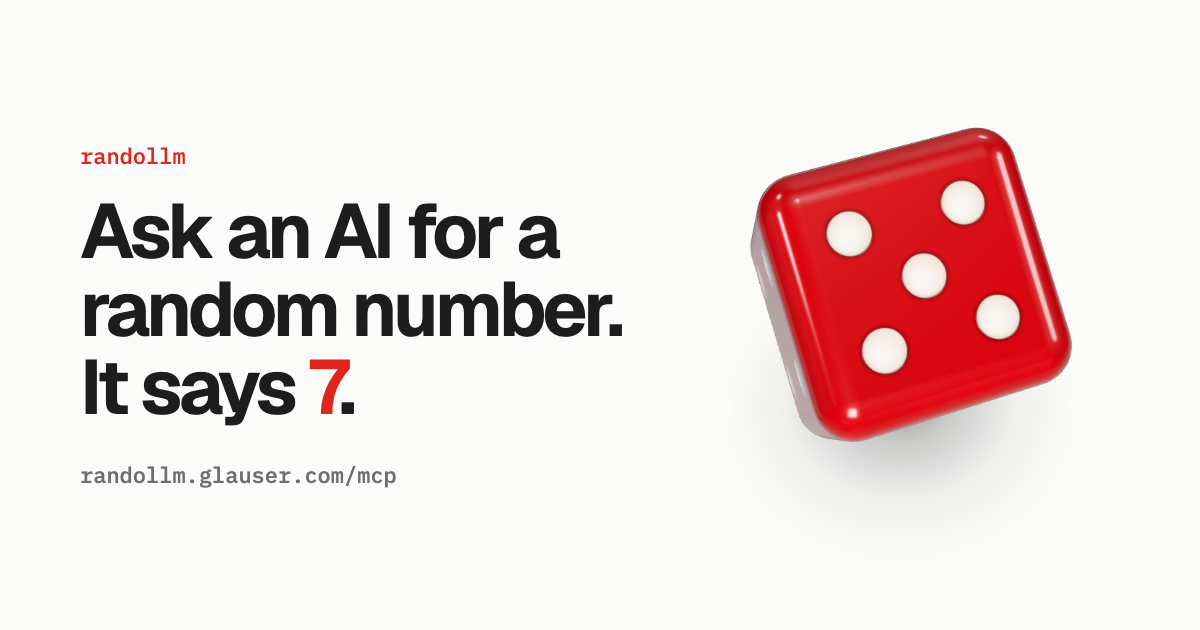
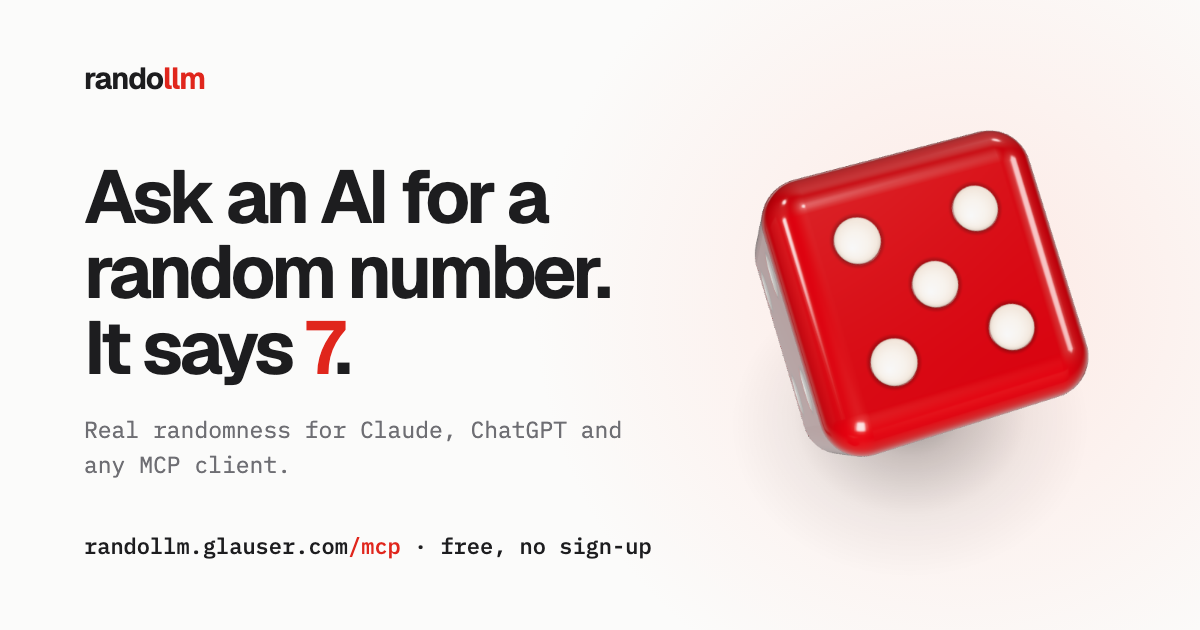
Usage counts, chart and tools without boxes, new share image
- Anonymous usage counting with Workers Analytics Engine (src/usage.js):
  one data point per tool call and per MCP client connection, with the
  tool, channel (mcp, api, or site for the landing page's own demos),
  the client's reported name or user agent, and the country. No IPs,
  inputs or results. `npm run usage` prints the numbers. Privacy policy
  says so.
- The histogram and the tools grid sit directly on the background; chart
  labels no longer collide with the 10% line.
- Share image redone: wordmark, cleaner line breaks, no box, soft glow.

diff --git a/src/usage.js b/src/usage.js
@@ -1,0 +1,81 @@
+// Anonymous usage counting with Workers Analytics Engine (binding USAGE,
+// dataset randollm_usage). One data point per event, never an IP address or
+// a tool's inputs. Columns, as queried by scripts/usage.mjs:
+//   blob1 event    "call" (a tool was used) or "connect" (an MCP client connected)
+//   blob2 tool     e.g. "int"; "" for connect events
+//   blob3 channel  "mcp", "api", or "site" (the landing page's own demos)
+//   blob4 client   the MCP client's name and version, or the API caller's user agent
+//   blob5 country  two-letter code from Cloudflare
+import { operations } from "./random.js";
+
+const MAX_CLIENT = 96;
+
+function clean(value) {
+  return String(value ?? "")
+    .replace(/[\u0000-\u001f\u007f]/g, "")
+    .slice(0, MAX_CLIENT);
+}
+
+function record(env, request, { event, tool = "", channel, client = "" }) {
+  try {
+    env.USAGE?.writeDataPoint({
+      indexes: [tool || event],
+      blobs: [event, tool, channel, clean(client), request.cf?.country ?? ""],
+    });
+  } catch {
+    // Counting must never break a request.
+  }
+}
+
+// Requests from the landing page's demos, so they don't count as real use.
+function fromSite(request, url) {
+  for (const header of ["origin", "referer"]) {
+    const value = request.headers.get(header);
+    if (!value) continue;
+    try {
+      return new URL(value).host === url.host;
+    } catch {
+      return false;
+    }
+  }
+  return false;
+}
+
+export function recordApi(env, request, url, op) {
+  const site = fromSite(request, url);
+  record(env, request, {
+    event: "call",
+    tool: op,
+    channel: site ? "site" : "api",
+    client: site ? "" : request.headers.get("user-agent"),
+  });
+}
+
+// Reads a copy of the MCP request body: one JSON-RPC message, or a batch.
+export async function recordMcp(env, request) {
+  if (request.method !== "POST" || !env.USAGE) return;
+  let body;
+  try {
+    body = await request.clone().json();
+  } catch {
+    return;
+  }
+  for (const msg of Array.isArray(body) ? body : [body]) {
+    if (msg?.method === "initialize") {
+      const info = msg.params?.clientInfo ?? {};
+      record(env, request, {
+        event: "connect",
+        channel: "mcp",
+        client: [info.name, info.version].filter(Boolean).join(" "),
+      });
+    } else if (msg?.method === "tools/call") {
+      const name = msg.params?.name;
+      record(env, request, {
+        event: "call",
+        tool: Object.hasOwn(operations, name) ? name : "unknown",
+        channel: "mcp",
+        client: request.headers.get("user-agent"),
+      });
+    }
+  }
+}

diff --git a/test/usage.test.js b/test/usage.test.js
@@ -1,0 +1,55 @@
+import { test } from "node:test";
+import assert from "node:assert/strict";
+import { Client } from "@modelcontextprotocol/sdk/client/index.js";
+import { StreamableHTTPClientTransport } from "@modelcontextprotocol/sdk/client/streamableHttp.js";
+import worker from "../src/worker.js";
+
+function envWithUsage() {
+  const points = [];
+  return { points, env: { USAGE: { writeDataPoint: (p) => points.push(p) } } };
+}
+
+test("MCP: records the client on connect and each tool call, never inputs", async () => {
+  const { points, env } = envWithUsage();
+  const client = new Client({ name: "test-client", version: "1.2.3" });
+  await client.connect(
+    new StreamableHTTPClientTransport(new URL("https://randollm.example/mcp"), {
+      fetch: (url, init) => worker.fetch(new Request(url, init), env),
+    }),
+  );
+  await client.callTool({ name: "pick", arguments: { options: ["secret-option-a", "secret-option-b"] } });
+  await client.close();
+
+  const blobs = points.map((p) => p.blobs);
+  assert.deepEqual(blobs[0].slice(0, 4), ["connect", "", "mcp", "test-client 1.2.3"]);
+  const call = blobs.find((b) => b[0] === "call");
+  assert.deepEqual(call.slice(0, 3), ["call", "pick", "mcp"]);
+  assert.ok(!JSON.stringify(points).includes("secret-option"), "inputs are never recorded");
+  // tools/list and notifications are not counted.
+  assert.equal(points.length, 2);
+});
+
+test("API: counts calls, and separates the landing page's demos", async () => {
+  const { points, env } = envWithUsage();
+  await worker.fetch(new Request("https://randollm.example/api/coin", { headers: { "user-agent": "curl/8.7.1" } }), env);
+  await worker.fetch(
+    new Request("https://randollm.example/api/dice?count=1&sides=6", {
+      headers: { referer: "https://randollm.example/", "user-agent": "Mozilla/5.0 something long" },
+    }),
+    env,
+  );
+  await worker.fetch(new Request("https://randollm.example/api/nope"), env);
+  assert.deepEqual(
+    points.map((p) => p.blobs.slice(0, 4)),
+    [
+      ["call", "coin", "api", "curl/8.7.1"],
+      ["call", "dice", "site", ""],
+    ],
+  );
+});
+
+test("a failing analytics binding never breaks a request", async () => {
+  const env = { USAGE: { writeDataPoint: () => { throw new Error("down"); } } };
+  const res = await worker.fetch(new Request("https://randollm.example/api/coin"), env);
+  assert.equal(res.status, 200);
+});

diff --git a/public/styles.css b/public/styles.css
@@ -274,7 +274,7 @@ section {
   transform: scale(0.97);
 }
 .btn.quiet {
-  background: color-mix(in srgb, var(--red) 11%, transparent);
+  background: color-mix(in srgb, var(--red) 13%, transparent);
   color: var(--red);
   font-weight: 600;
 }
@@ -412,12 +412,7 @@ section {
 .chart {
   max-width: 880px;
   margin: 0 auto;
-  padding: 36px 20px 20px;
-}
-@media (min-width: 720px) {
-  .chart {
-    padding: 48px 44px 28px;
-  }
+  padding-top: 28px;
 }
 .bars {
   position: relative;
@@ -437,8 +432,7 @@ section {
   position: absolute;
   left: 0;
   right: 0;
-  border-top: 1px dashed var(--ink-2);
-  opacity: 0.5;
+  border-top: 1px dashed color-mix(in srgb, var(--ink) 30%, transparent);
   pointer-events: none;
 }
 .bar {
@@ -450,12 +444,16 @@ section {
 }
 .bar b {
   position: absolute;
-  bottom: 100%;
+  z-index: 1;
+  bottom: calc(100% + 6px);
   left: 50%;
   transform: translateX(-50%);
-  padding-bottom: 6px;
+  padding: 0 4px;
+  border-radius: 4px;
+  background: var(--surface-2);
   font-size: 11px;
   font-weight: 500;
+  line-height: 1.5;
   color: var(--ink-2);
   white-space: nowrap;
 }
@@ -463,8 +461,8 @@ section {
   display: grid;
   grid-template-columns: repeat(10, 1fr);
   gap: 6px;
-  padding-top: 12px;
-  border-top: 1px solid var(--hairline);
+  padding-top: 14px;
+  border-top: 1px solid color-mix(in srgb, var(--ink) 18%, transparent);
   text-align: center;
   font: 600 15px/1 var(--display);
   color: var(--ink-2);
@@ -497,7 +495,7 @@ section {
 .legend::before {
   content: "";
   width: 20px;
-  border-top: 1px dashed var(--ink-2);
+  border-top: 1px dashed color-mix(in srgb, var(--ink) 45%, transparent);
 }
 
 /* ---------- Setup ---------- */
@@ -576,10 +574,11 @@ section {
 
 .tools {
   list-style: none;
-  margin: 0;
+  margin: 0 auto;
   padding: 0;
+  max-width: 980px;
   display: grid;
-  gap: 16px;
+  column-gap: 48px;
 }
 @media (min-width: 640px) {
   .tools {
@@ -592,17 +591,19 @@ section {
   }
 }
 .tools li {
-  padding: 26px 24px 28px;
+  padding: 22px 0 26px;
+  border-top: 1px solid var(--hairline);
   display: grid;
-  gap: 10px;
+  gap: 8px;
   align-content: start;
 }
 .tools code {
   justify-self: start;
-  font-size: 12px;
+  font-size: 13px;
   font-weight: 600;
   color: var(--red);
-  background: color-mix(in srgb, var(--red) 10%, transparent);
+  background: none;
+  padding: 0;
 }
 .tools p {
   margin: 0;

diff --git a/public/index.html b/public/index.html
@@ -87,9 +87,9 @@
   <div class="wrap">
     <div class="head">
       <h2>Flat, the way <span class="red">random</span> should be.</h2>
-      <p class="sub">1,000 rolls of a ten-sided die, fetched live in one request.</p>
+      <p class="sub">1,000 rolls of a ten-sided die, fetched live.</p>
     </div>
-    <div class="card chart">
+    <div class="chart">
       <div class="bars" id="bars" role="img" aria-label="Histogram of 1,000 rolls from 1 to 10">
         <div class="expected" style="bottom:66.667%"></div>
         <div class="bar"><b></b></div><div class="bar"><b></b></div><div class="bar"><b></b></div><div class="bar"><b></b></div><div class="bar"><b></b></div>
@@ -159,15 +159,15 @@
       <p class="sub">Just ask. The model picks the right one.</p>
     </div>
     <ul class="tools">
-      <li class="card"><code>int</code><p>“Pick a number from 1 to 10.”</p></li>
-      <li class="card"><code>coin</code><p>“Flip a coin: do I go out tonight?”</p></li>
-      <li class="card"><code>pick</code><p>“Pizza, sushi or tacos? You choose.”</p></li>
-      <li class="card"><code>sample</code><p>“Pick 3 winners from these 40 names.”</p></li>
-      <li class="card"><code>shuffle</code><p>“Shuffle the order for standup.”</p></li>
-      <li class="card"><code>weighted</code><p>“70% common, 25% rare, 5% epic.”</p></li>
-      <li class="card"><code>dice</code><p>“Roll 2d6 for my attack.”</p></li>
-      <li class="card"><code>float</code><p>“A random value between 0.2 and 0.9.”</p></li>
-      <li class="card"><code>uuid</code><p>“Generate an ID for this record.”</p></li>
+      <li><code>int</code><p>“Pick a number from 1 to 10.”</p></li>
+      <li><code>coin</code><p>“Flip a coin: do I go out tonight?”</p></li>
+      <li><code>pick</code><p>“Pizza, sushi or tacos? You choose.”</p></li>
+      <li><code>sample</code><p>“Pick 3 winners from these 40 names.”</p></li>
+      <li><code>shuffle</code><p>“Shuffle the order for standup.”</p></li>
+      <li><code>weighted</code><p>“70% common, 25% rare, 5% epic.”</p></li>
+      <li><code>dice</code><p>“Roll 2d6 for my attack.”</p></li>
+      <li><code>float</code><p>“A random value between 0.2 and 0.9.”</p></li>
+      <li><code>uuid</code><p>“Generate an ID for this record.”</p></li>
     </ul>
   </div>
 </section>

diff --git a/public/privacy.html b/public/privacy.html
@@ -31,7 +31,7 @@
 </header>
 <main id="main" class="prose">
   <div class="wrap">
-    <p class="eyebrow">Last updated 17 October 2026</p>
+    <p class="eyebrow">Last updated 18 October 2026</p>
     <h1>Privacy</h1>
     <p>randollm is a free service that returns random results to AI tools and to people calling its API. It’s built to know as little as possible about you.</p>
 
@@ -42,6 +42,9 @@
     <h2>Technical data and logs</h2>
     <p>randollm runs on Cloudflare Workers. Like any website, each request carries technical data such as your IP address, the time, the address requested and the name of your browser or AI client. randollm uses the IP address only in memory, to limit how many requests one client can make per minute.</p>
     <p>Cloudflare keeps short-lived operational logs (request time, path, response status and similar) so problems can be found and fixed. They are kept for up to 7 days, then deleted automatically. Cloudflare’s own handling of this data is described in <a href="https://www.cloudflare.com/privacypolicy/">Cloudflare’s privacy policy</a>.</p>
+
+    <h2>Usage counts</h2>
+    <p>To see how randollm is used, it counts each tool call anonymously: which tool, whether it came through MCP, the API or this website, the name your AI app or API client reports about itself (for example its app name and version), and the country Cloudflare sees the request coming from. <strong>No IP addresses and no inputs or results are counted.</strong> These counts are kept in Cloudflare Workers Analytics Engine for up to three months.</p>
 
     <h2>This website</h2>
     <p>This site uses Cloudflare Web Analytics, which counts page views without cookies and without tracking you across sites. The demos on the home page call the same API described above.</p>

diff --git a/src/worker.js b/src/worker.js
@@ -5,6 +5,7 @@ import { WebStandardStreamableHTTPServerTransport } from "@modelcontextprotocol/
 import { CfWorkerJsonSchemaValidator } from "@modelcontextprotocol/sdk/validation/cfworker";
 import { createServer } from "./tools.js";
 import { operations, run, verify, RandomError } from "./random.js";
+import { recordApi, recordMcp } from "./usage.js";
 
 const MAX_BODY = 64 * 1024;
 
@@ -67,6 +68,7 @@ async function handleApi(request, url, env) {
   if (await rateLimited(env.API_LIMITER, request)) return json(429, { error: "rate limit exceeded, try again in a minute" });
   const op = url.pathname.slice("/api/".length);
   if (op !== "verify" && !Object.hasOwn(operations, op)) return json(404, { error: `unknown operation: ${op}` });
+  recordApi(env, request, url, op);
   try {
     const params = await readParams(request, url);
     if (op === "verify") return json(200, { valid: verify(params, env.RANDOLLM_SECRET) });
@@ -85,6 +87,8 @@ async function handleMcp(request, url, env) {
   }
   if (tooLarge(request)) return json(413, { error: "body too large" });
   if (await rateLimited(env.MCP_LIMITER, request)) return json(429, { error: "rate limit exceeded, try again in a minute" });
+
+  await recordMcp(env, request);
 
   // Stateless: a fresh server and transport per request, no sessions to store.
   const server = createServer({

diff --git a/README.md b/README.md
@@ -82,6 +82,16 @@ One-time setup:
 5. Turn on Cloudflare Web Analytics for the site. The privacy page says it's in use.
 6. Check that `https://randollm.glauser.com/health` returns `{"ok":true}`, then add the connector in Claude and in ChatGPT (developer mode) and call a tool.
 
+## Usage stats
+
+Every tool call is counted anonymously in Workers Analytics Engine ([src/usage.js](src/usage.js)): the tool, the channel (`mcp`, `api`, or `site` for the landing page's own demos), the client's reported name or user agent, and the country. No IP addresses and no inputs or results are recorded. MCP clients are also counted when they connect, which shows which apps use randollm.
+
+```bash
+npm run usage
+```
+
+This prints the last 7 days (`npm run usage -- 30` for 30). It needs `CLOUDFLARE_ACCOUNT_ID` and `CLOUDFLARE_API_TOKEN` in `.env`. The token is a custom API token with **Account Analytics: Read**. Request totals and errors are also on the Worker's **Metrics** tab in Cloudflare, and the last 3 days of requests are under **Logs**.
+
 ## Limits and cost
 
 - **Static files are free and unlimited.** Only `/mcp`, `/api/*` and `/health` run the Worker (`run_worker_first`), so page views don't use the request quota. The demos on the home page make one API request each.
